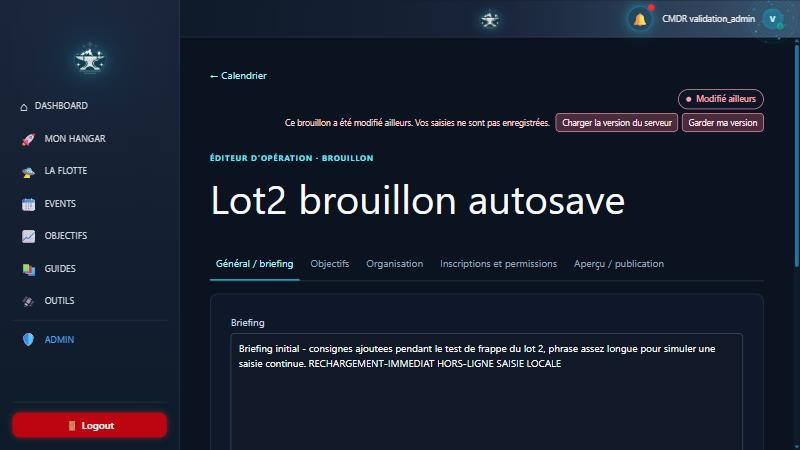
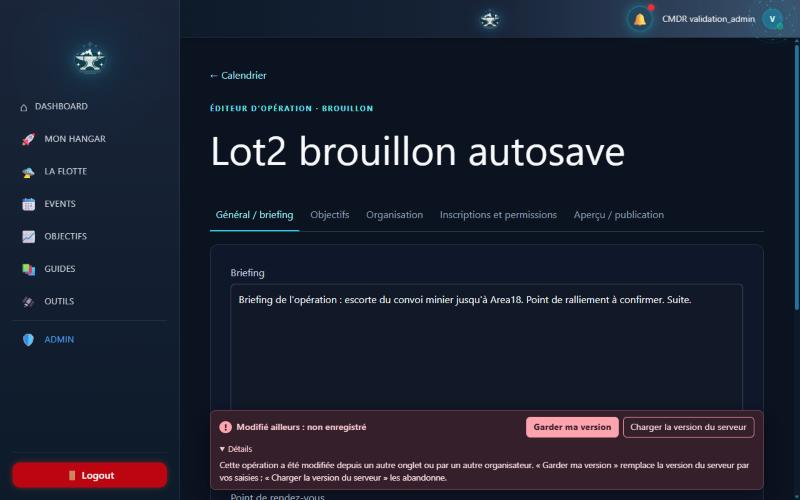
docs(operations): lot 2 corrections avant validation
Vérifications de visibilité des brouillons, revue indépendante ciblée,
captures de l'éditeur discret et suivi mis à jour.

diff --git a/docs/operations/evidence/lot2/RAPPORT-LOT2.md b/docs/operations/evidence/lot2/RAPPORT-LOT2.md
@@ -58,9 +58,48 @@ Revue du diff par un agent séparé, en lecture seule : aucun bloquant, 5 consta
 | Révision périmée renvoyée par la publication | Corrigé (trouvé aussi en test manuel) |
 | Autres constats mineurs | Voir le suivi ci-dessous |
 
+## Corrections avant validation (2026-10-12)
+
+### Autosauvegarde discrète
+
+| État | Affichage |
+|---|---|
+| Modifications en cours, sauvegarde réussie | Rien : ni badge, ni horodatage, ni toast |
+| Enregistrement en cours | Un petit indicateur d'activité sans texte, à droite de « ← Calendrier » |
+| Erreur | Alerte compacte en bas de l'éditeur : « Modifications non enregistrées », « Réessayer », détails repliés |
+| Conflit | Même alerte : « Modifié ailleurs : non enregistré », « Garder ma version », « Charger la version du serveur », explication dans « Détails » |
+| Départ avec des saisies non enregistrables | Confirmation conservée |
+
+L'alerte ne déplace ni l'en-tête ni le formulaire : elle reste collée en bas de la zone visible. L'indication près du bouton et la mention du statut dans l'en-tête sont retirées. La mécanique de sauvegarde (révisions, 409, une écriture à la fois) n'a pas changé.
+
+### Brouillons invisibles pour les membres
+
+Règle appliquée côté serveur : une opération non publiée n'existe pas pour un membre, ni dans les listes, ni par identifiant, ni en temps réel, ni sur Discord, ni par notification. Les événements classiques ne sont pas concernés.
+
+| Vérification (pile dev, comptes de test) | Résultat |
+|---|---|
+| 1. Création d'un brouillon par un administrateur | 200 |
+| 2. Présent dans la liste des brouillons et dans la gestion des événements de l'administration | oui |
+| 3. Calendrier d'un membre (`/api/events/upcoming`, `/api/events/all`, y compris avec `includeDrafts=true`) | absent |
+| 3 bis. Calendrier d'un administrateur | absent (les brouillons se gèrent depuis l'administration) |
+| 4. Accès direct d'un membre : opération, groupes, vaisseaux, besoins, participations (lecture et écriture), demandes d'affectation | 404, identique à un identifiant inexistant |
+| 4 bis. Édition, liste des brouillons, groupes en édition par un membre ; calendrier par un anonyme | 401 |
+| 4 ter. Site public (`/api/front/recent-events`) | brouillon absent |
+| 5. Après publication | visible dans `/upcoming` et `/all` pour le membre, fiche 200, participation 200 |
+| 5 bis. Deux publications successives | une seule annonce (1 `ADD` WebSocket, 1 `events.created`) dans les journaux |
+| 6. Événement classique | création 201, visible pour le membre, participation 200 |
+
+Autres changements liés : un brouillon n'est plus annoncé à sa création (calendrier en direct, Discord, notification) ; l'annonce part à la publication, après validation de la transaction. Les rappels programmés et le bloc IceLink ignorent les brouillons. Une réponse Discord sur une opération non publiée est ignorée. Un événement classique converti en opération est retiré des calendriers ouverts et de Discord jusqu'à sa publication.
+
+Tests : backend 313 tests, 0 échec, 3 ignorés (`EventServiceTest` 12, `OperationServiceTest` 5) ; front 28 tests ciblés passés (autosauvegarde 11, éditeur 9, gestion des événements 1, calendrier 7).
+
+### Revue indépendante ciblée (visibilité)
+
+Aucun bloquant, aucune fuite de contenu trouvée. Trois constats importants, corrigés et revérifiés : fuite d'existence par `GET /api/operations/{id}/assignment-requests` (200 au lieu de 404), entrée Discord de participation non filtrée, double annonce possible lors de deux publications concurrentes (la transition est maintenant décidée dans la transaction). Les constats mineurs sont dans le suivi.
+
 ## Captures
 
-`brouillons-liste.jpg`, `brouillons-liste-mobile.jpg`, `editeur-enregistre.jpg`, `editeur-erreur-reseau.jpg`, `editeur-conflit.jpg`, `editeur-mobile.jpg`. Les captures de l'éditeur datent d'avant les corrections de la revue (texte du conflit et message d'adresse d'image modifiés depuis).
+`brouillons-liste.jpg`, `brouillons-liste-mobile.jpg`, `editeur-desktop.jpg`, `editeur-mobile.jpg`, `editeur-erreur.jpg`, `editeur-conflit.jpg`, `editeur-conflit-mobile.jpg`. Les trois captures desktop de l'éditeur montrent encore « · Brouillon » dans le surtitre, retiré ensuite ; `editeur-mobile.jpg` montre l'en-tête final.
 
 ## Suivi
 
@@ -73,12 +112,16 @@ Lot 2 :
 - Liste des brouillons sans filtre ni pagination ; les brouillons d'opérations passées y restent.
 - `updatedAt` est converti avec le fuseau de la JVM ; un changement de fuseau du conteneur décalerait les dates affichées.
 - Le verrou optimiste est couvert par des tests à base de mocks et par les tests manuels, pas par un test d'intégration avec base.
-- L'état d'enregistrement est affiché dans l'en-tête et près du bouton, car l'en-tête sort de l'écran sur un long briefing.
 - Titre, type et dates d'une opération ne sont pas modifiables dans l'éditeur (déjà le cas avant le lot).
 
 Constaté pendant le lot, hors périmètre :
 
-- **Le calendrier (`/api/events/upcoming`) liste les opérations en brouillon à tous les membres** (titre, type, dates). Le contenu du brouillon reste protégé. Comportement antérieur au lot 2, non modifié.
+- Brouillons créés avant cette correction : ils ont déjà été annoncés sur Discord à leur création ; leur message n'est pas retiré.
+- `GET /api/user-ships/member?eventId=&userId=` ne contrôle pas le statut de publication : si un organisateur se déclare présent sur un brouillon, un membre connaissant les deux identifiants obtient sa flotte (200 au lieu de 403).
+- Une opération dont la ligne `operations` manquerait serait masquée partout sauf dans la gestion des événements. Aucun cas connu.
+- Site public : un brouillon échu peut occuper une des 3 places des événements récents, la page en affiche alors moins de 3. Aucun contenu ne fuit.
+- Un brouillon déjà échu puis publié est annoncé comme disponible.
+- Si l'annonce de publication échoue (WebSocket, Discord), l'opération reste publiée et l'annonce n'est pas rejouée.
 - Un refus d'accès pour rôle insuffisant renvoie 401 au lieu de 403.
 - `GET /api/operations/{id}/ships` renvoie 404 sur un brouillon ; l'éditeur l'ignore.
 
